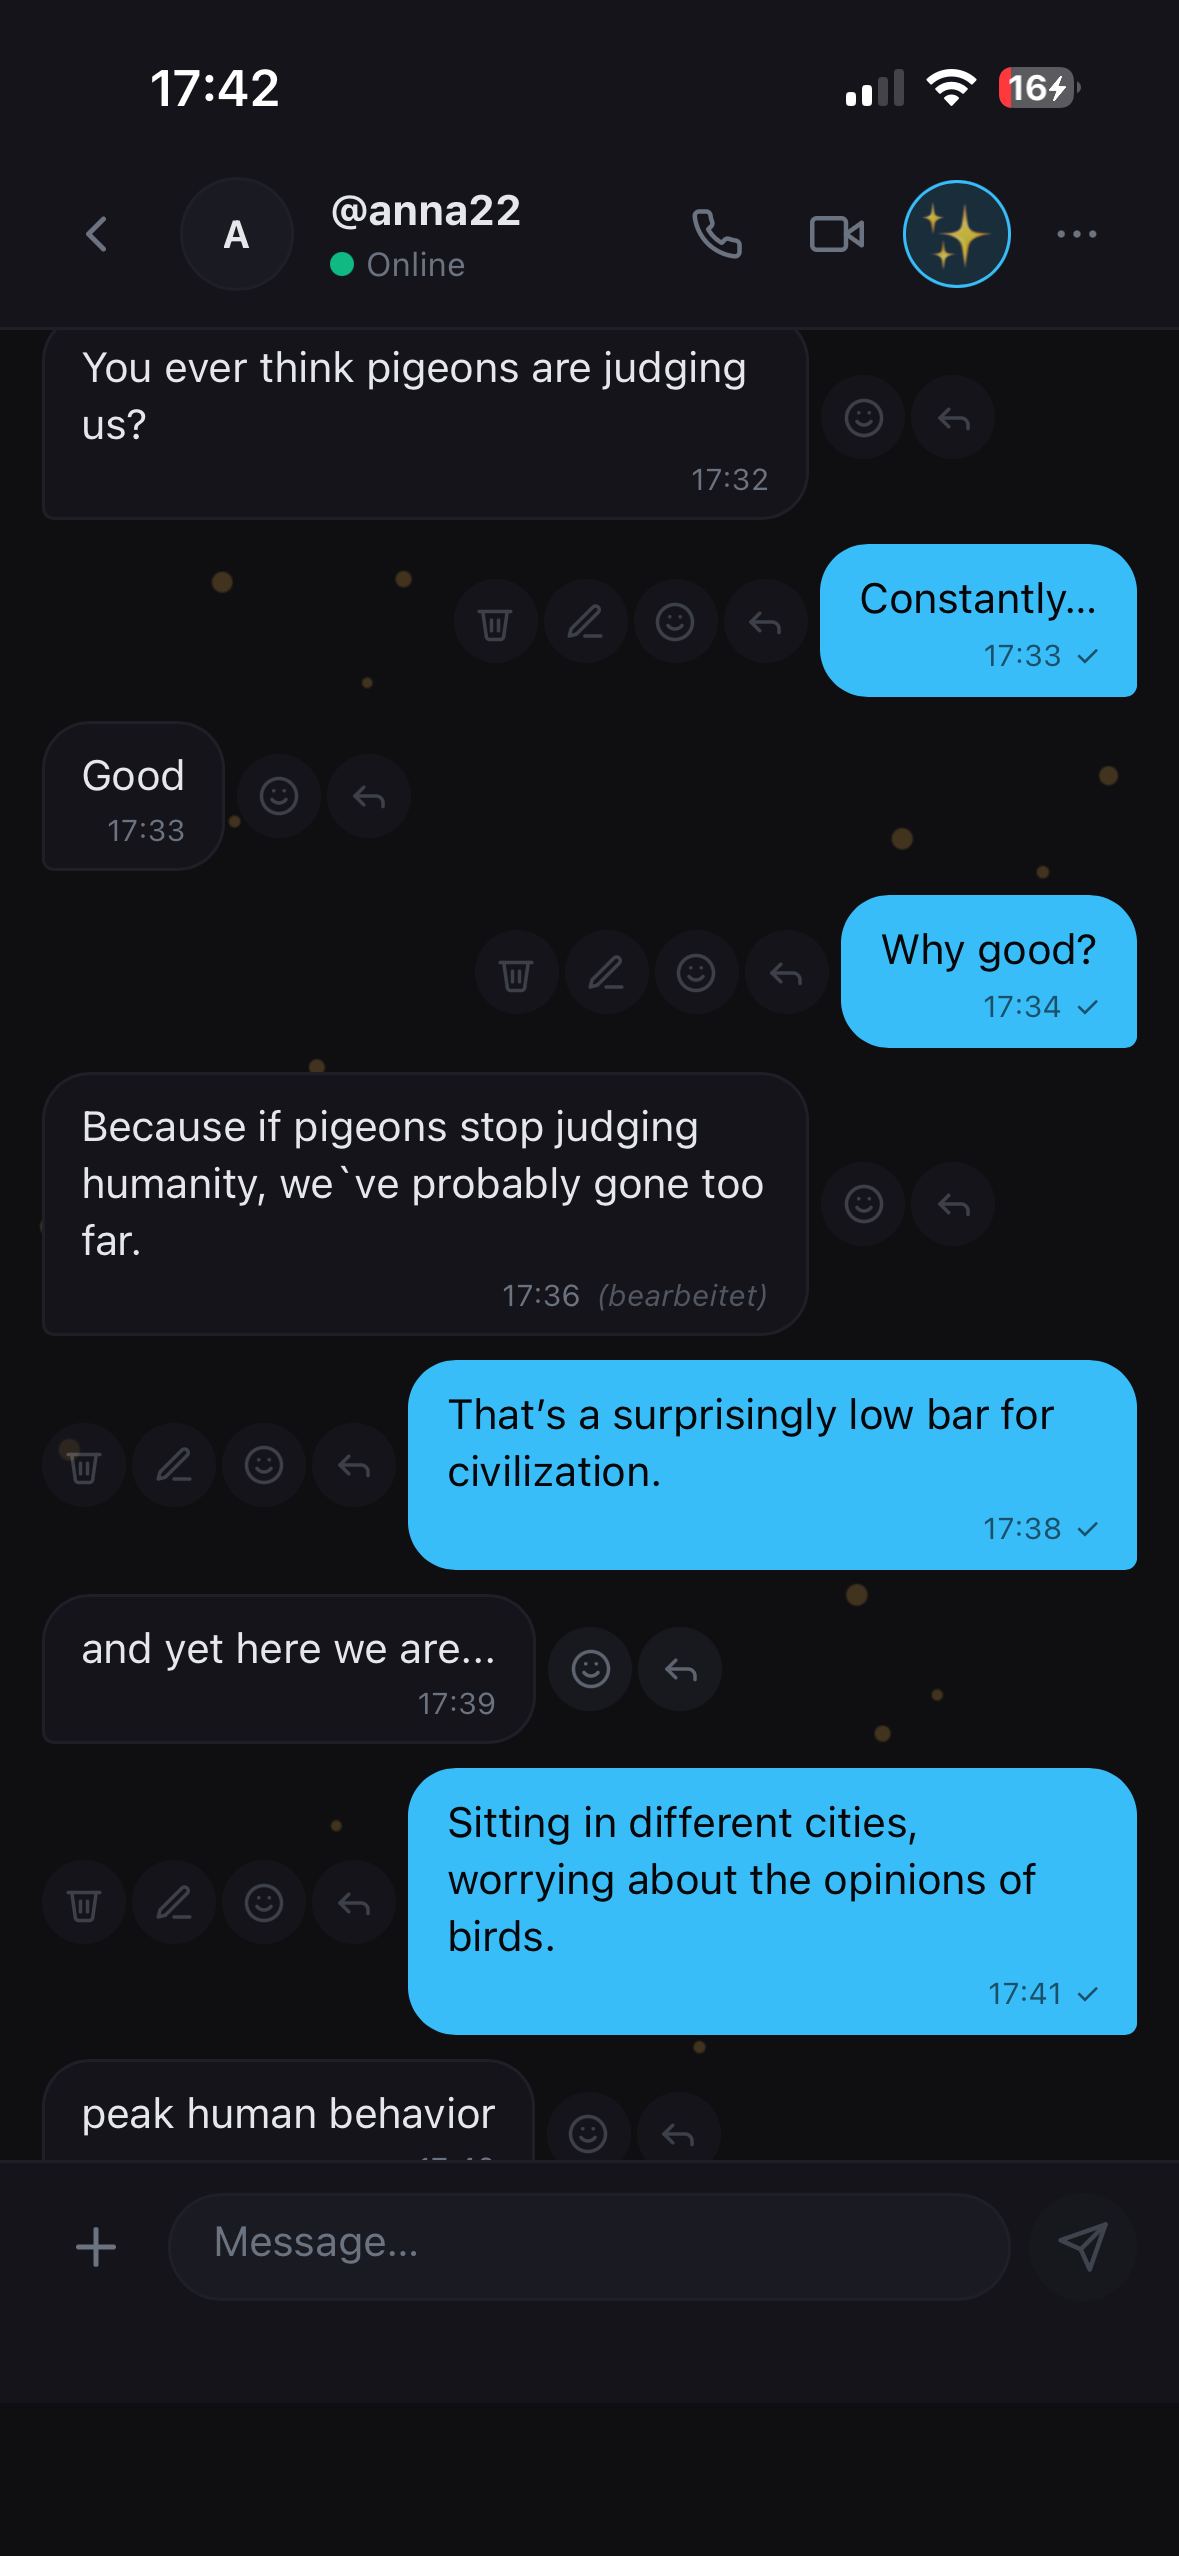
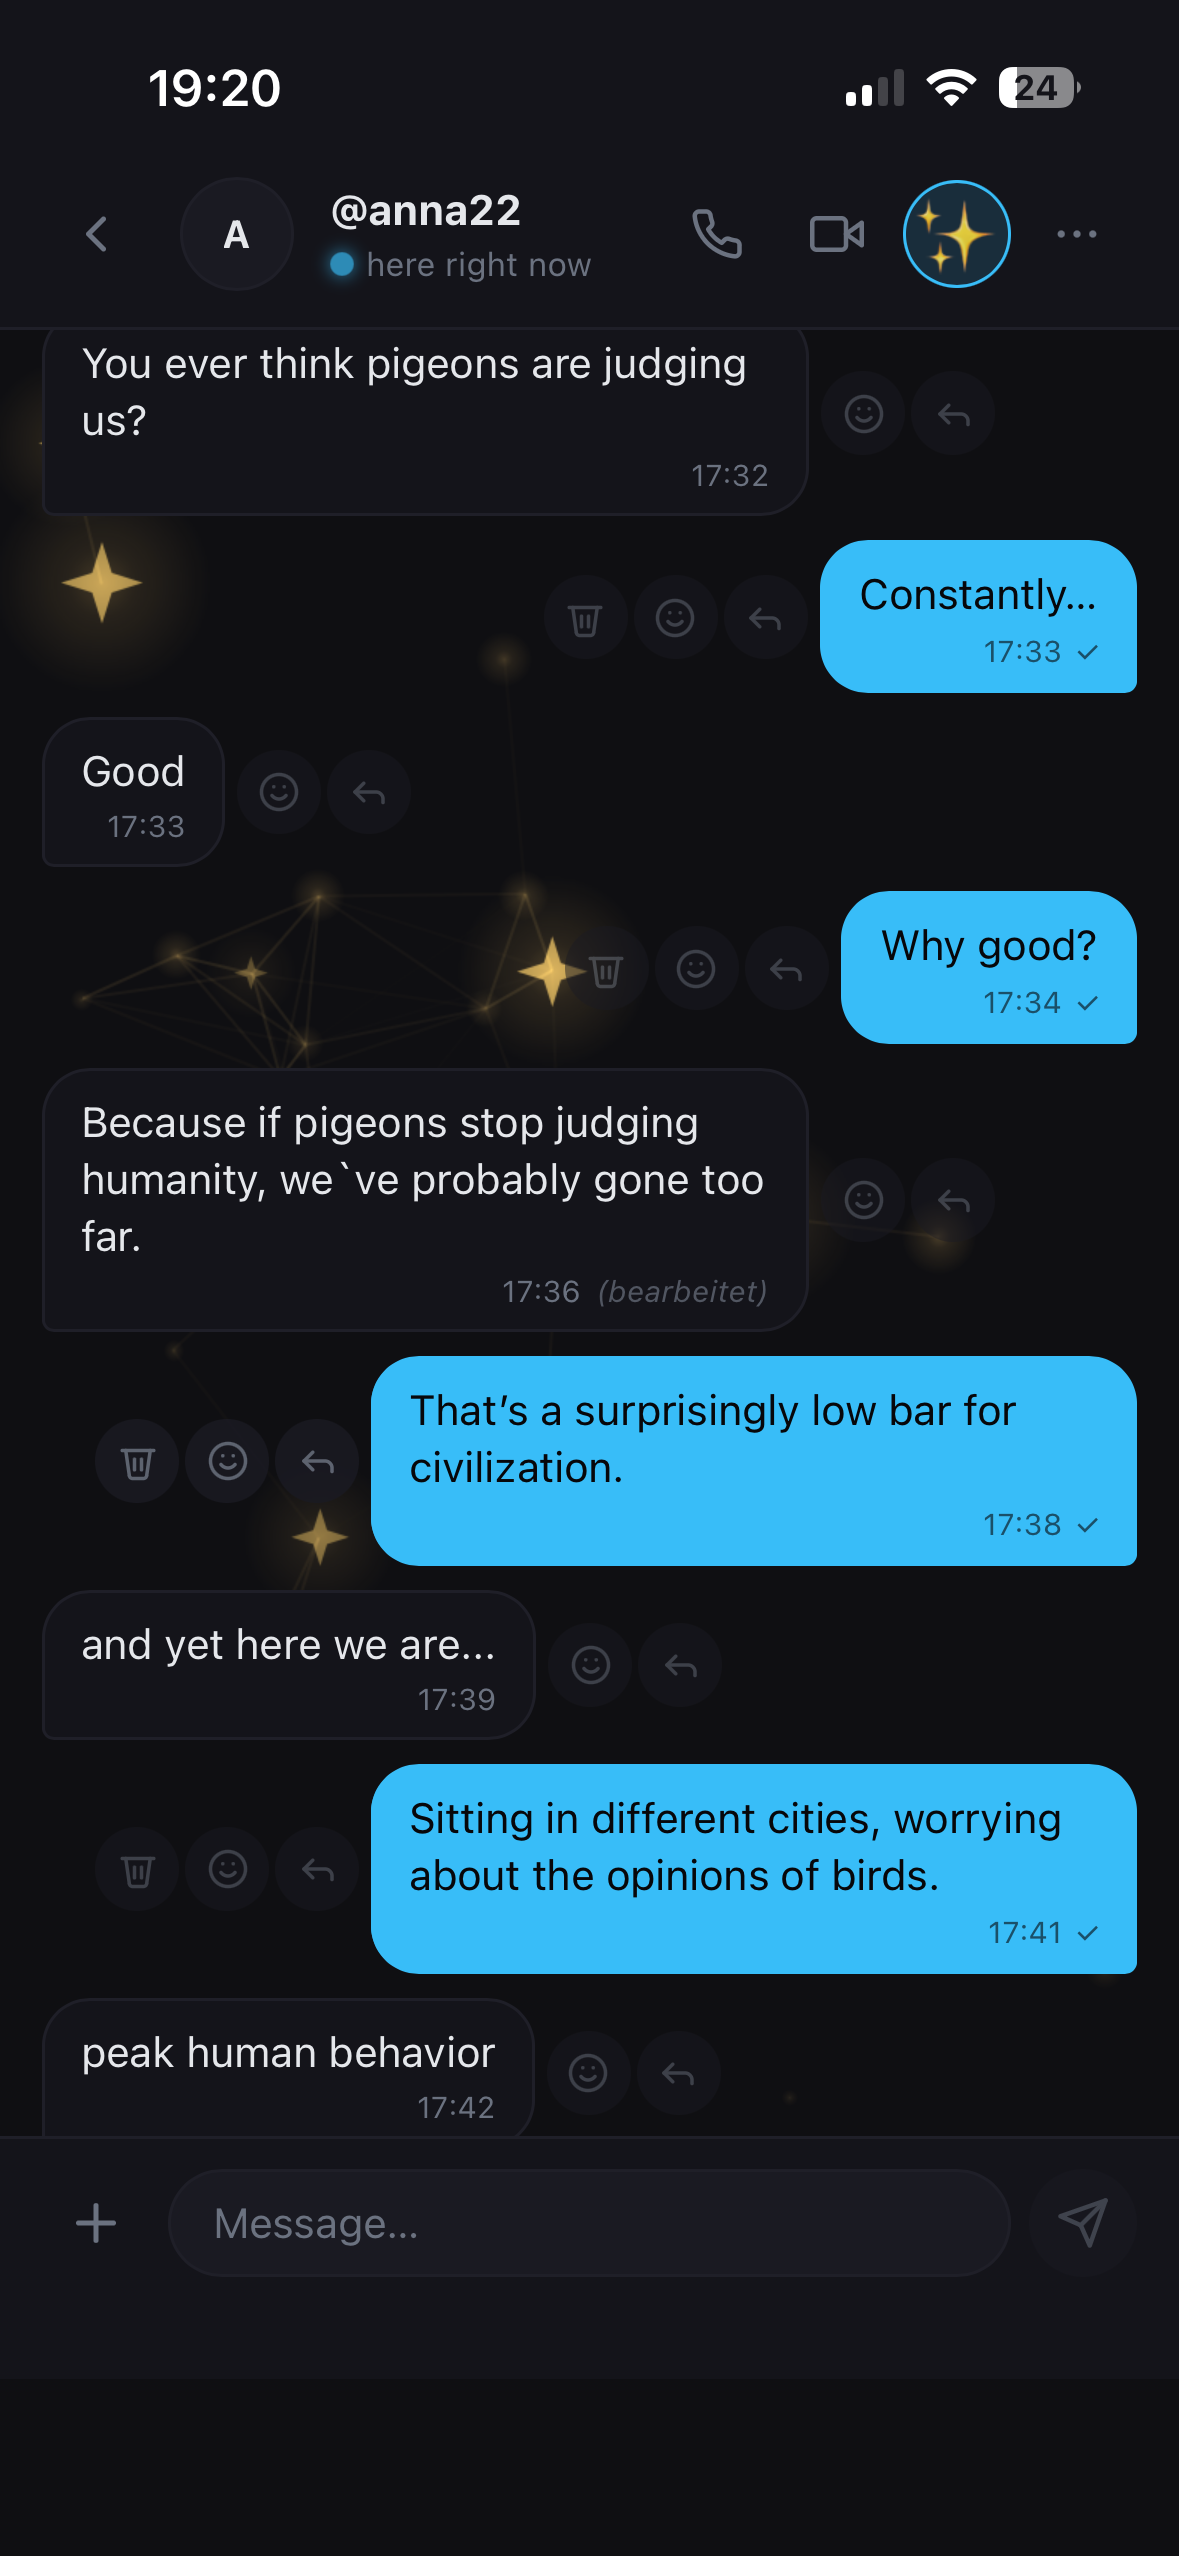
feat(brand): Stern-Look auf Landing-Canvas + neues Showcase-Bild
- PulseLandingCanvas auf denselben Stern-Look wie der In-App-Pulse portiert:
  Glow-Bokeh-Sprites (additives 'lighter'), ✦-Funken (Bursts immer Funken),
  Per-Partikel-Twinkle, Foam → gold/größer. Interaktions-Logik (Pointer/Touch-
  Energy, Bursts, Heartbeat, reduced-motion) unverändert.
- Showcase-Screenshot getauscht: neuer Shot zeigt den Stern-Look live (✦-Funken,
  Konstellation, "here right now"-Presence). Gleicher Dateiname/Format → kein
  Layout-Change.

Build grün, 472/472 Tests grün.

diff --git a/frontend/src/components/PulseLandingCanvas.svelte b/frontend/src/components/PulseLandingCanvas.svelte
@@ -42,6 +42,7 @@
   const isCoarse = typeof window !== 'undefined'
     && window.matchMedia('(hover: none), (pointer: coarse)').matches;
   const SPEED_MAX_TOUCH = 0.9;              // px/ms — Touch erreicht schneller hohe Energy
+  const SPARKLE_RATIO = 0.24;               // Anteil ✦-Funken
 
   // ── Laufzeit-State (kein $state nötig — alles in der rAF-Loop) ──
   let energy = ENERGY_FLOOR;
@@ -50,6 +51,7 @@
   let running = false;
   let raf = null;
   let reducedMotion = false;
+  let cyanSprite = null, goldSprite = null;  // vorgerenderte Glow-Sprites
 
   // Pointer-Tracking
   let lastX = 0, lastY = 0, lastT = 0;
@@ -65,6 +67,38 @@
   function lerp(a, b, t) { return a + (b - a) * t; }
   function clamp01(v) { return v < 0 ? 0 : v > 1 ? 1 : v; }
 
+  // Vorgerenderter Glow-Sprite (Perf: drawImage statt shadowBlur pro Frame)
+  function makeGlow(rgb) {
+    const s = document.createElement('canvas');
+    const size = 64; s.width = s.height = size;
+    const g = s.getContext('2d');
+    const grad = g.createRadialGradient(32, 32, 0, 32, 32, 32);
+    grad.addColorStop(0,   `rgba(${rgb},0.95)`);
+    grad.addColorStop(0.3, `rgba(${rgb},0.45)`);
+    grad.addColorStop(1,   `rgba(${rgb},0)`);
+    g.fillStyle = grad; g.fillRect(0, 0, size, size);
+    return s;
+  }
+
+  // 4-Punkt-✦ (8 Vertices, scharfer Innenradius → Funke statt Blob)
+  function drawSparkle(ctx, x, y, r, color, alpha) {
+    ctx.save();
+    ctx.translate(x, y);
+    ctx.globalAlpha = Math.min(1, alpha);
+    ctx.fillStyle = color;
+    ctx.beginPath();
+    const inner = r * 0.34;
+    for (let i = 0; i < 8; i++) {
+      const ang = (Math.PI / 4) * i - Math.PI / 2;
+      const rad = i % 2 === 0 ? r : inner;
+      const px = Math.cos(ang) * rad, py = Math.sin(ang) * rad;
+      if (i === 0) ctx.moveTo(px, py); else ctx.lineTo(px, py);
+    }
+    ctx.closePath();
+    ctx.fill();
+    ctx.restore();
+  }
+
   function resize(canvas) {
     const dpr = Math.min(window.devicePixelRatio || 1, 2);
     const rect = canvas.getBoundingClientRect();
@@ -79,9 +113,12 @@
       y: Math.random() * dim.h,
       vx: (Math.random() - 0.5) * 0.4,
       vy: (Math.random() - 0.5) * 0.4,
-      r: 1.1 + Math.random() * 1.1,
+      r: 1.2 + Math.random() * 1.4,
       ambient: true,
       life: Infinity,
+      tp: Math.random() * Math.PI * 2,       // Twinkle-Phase
+      ts: 0.6 + Math.random() * 1.3,         // Twinkle-Speed
+      sparkle: Math.random() < SPARKLE_RATIO,
     };
   }
 
@@ -98,6 +135,9 @@
         life: 1,            // 1 → 0 über maxLife
         maxLife: 520 + Math.random() * 520, // ms
         born: performance.now(),
+        tp: Math.random() * Math.PI * 2,
+        ts: 1.0 + Math.random() * 1.5,
+        sparkle: true,      // Bursts sind immer Funken (die „aktive" Energie)
       });
     }
   }
@@ -178,7 +218,13 @@
       }
     }
 
-    // ── Partikel ──
+    // ── Sterne (Glow-Bokeh + ✦-Funken, Per-Partikel-Twinkle) ──
+    const foam = c.foamFactor > 0.22;
+    const sprite = foam ? goldSprite : cyanSprite;
+    const coreColor = foam ? '#ffd36b' : '#bdf0ff';
+    const nowSec = now / 1000;
+
+    ctx.globalCompositeOperation = 'lighter';
     for (let i = particles.length - 1; i >= 0; i--) {
       const p = particles[i];
 
@@ -197,14 +243,22 @@
         if (p.life <= 0) { particles.splice(i, 1); continue; }
       }
 
-      const alpha = p.ambient ? (0.28 + energy * 0.42) : (p.life * 0.85);
-      const col = currentColor(now, p.ambient ? 0 : 10);
-      ctx.fillStyle = `hsla(${col.hue}, ${col.sat}%, ${col.light}%, ${alpha})`;
-      ctx.beginPath();
-      const rr = p.ambient ? p.r * (0.85 + energy * 0.6) : p.r * (0.5 + p.life * 0.8);
-      ctx.arc(p.x, p.y, rr, 0, Math.PI * 2);
-      ctx.fill();
+      const tw = 0.7 + 0.3 * Math.sin(nowSec * p.ts + p.tp);
+      const baseAlpha = p.ambient ? (0.14 + energy * 0.5) : (p.life * 0.9);
+      const alpha = baseAlpha * tw;
+      const size = (p.ambient ? p.r * (0.85 + energy * 0.7) : p.r * (0.5 + p.life * 0.9))
+                   * tw * (p.sparkle ? 1.4 : 1) * (foam && p.sparkle ? 1.4 : 1);
+
+      ctx.globalAlpha = Math.min(1, alpha);
+      const glowD = size * (p.sparkle ? 7 : 5);
+      ctx.drawImage(sprite, p.x - glowD / 2, p.y - glowD / 2, glowD, glowD);
+
+      if (p.sparkle) {
+        drawSparkle(ctx, p.x, p.y, size * 1.25, coreColor, alpha * 2.2);
+      }
     }
+    ctx.globalAlpha = 1;
+    ctx.globalCompositeOperation = 'source-over';
 
     ctx.restore();
   }
@@ -223,6 +277,9 @@
     if (!canvas) return;
     const ctx = canvas.getContext('2d');
     if (!ctx) return;
+
+    cyanSprite = makeGlow('150,225,255');
+    goldSprite = makeGlow('255,205,110');
 
     resize(canvas);
 
